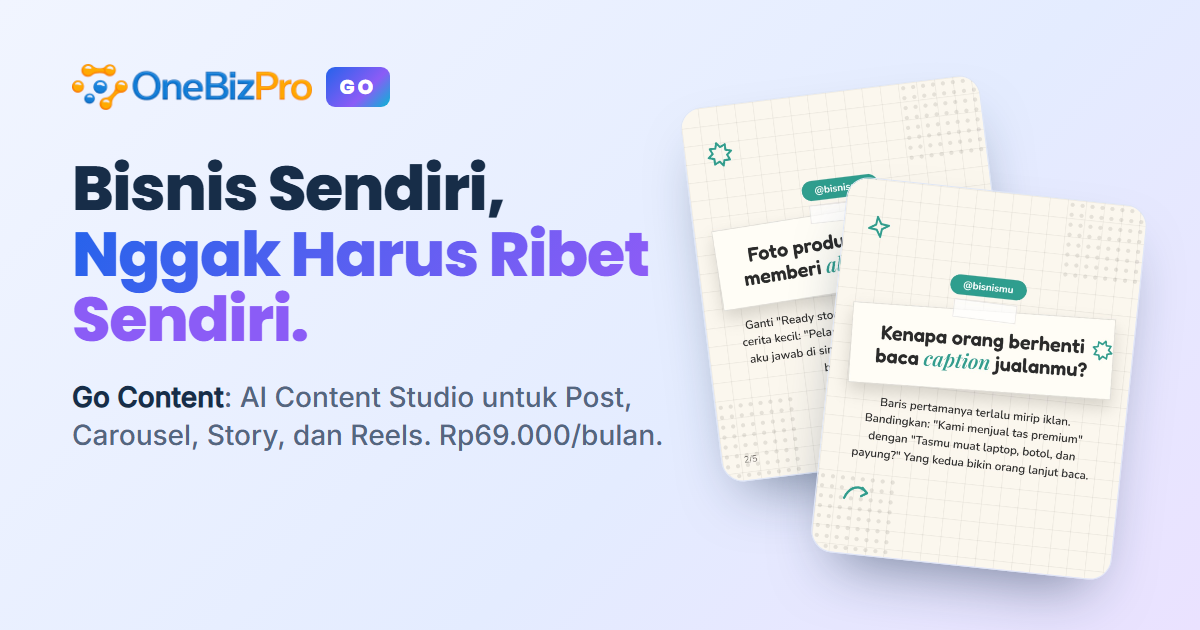
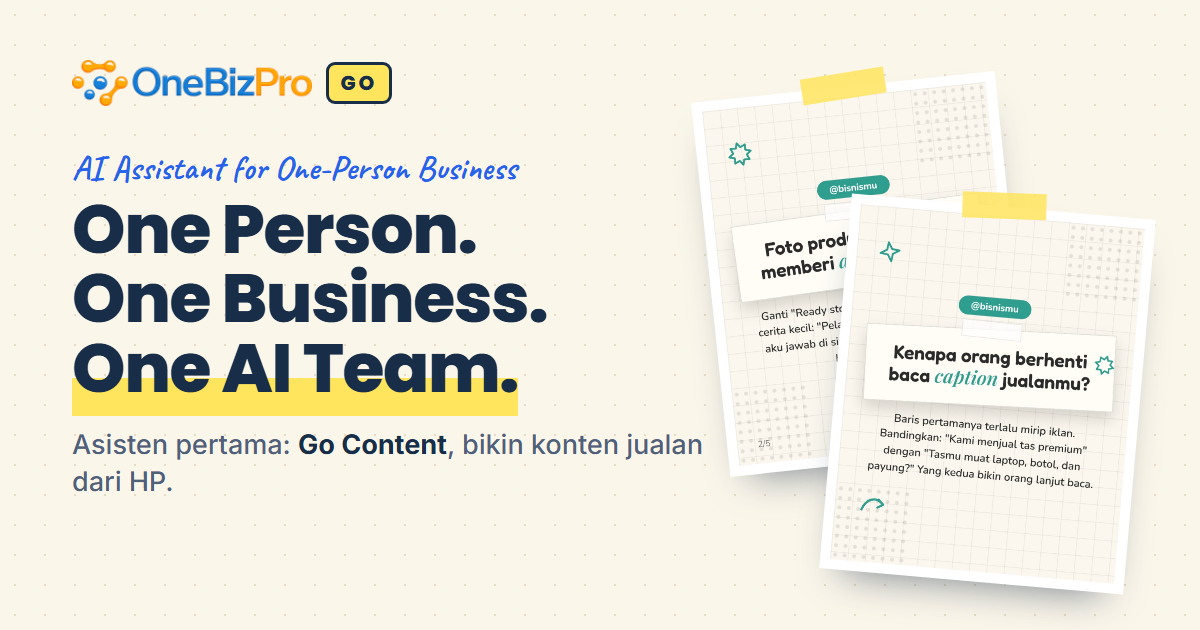
Go: sembunyikan harga, gambar OG baru, bagian akses

diff --git a/components/go/go-sections.tsx b/components/go/go-sections.tsx
@@ -3,8 +3,8 @@ import { FAQ, GO, PRICING_FEATURES, STEPS } from "@/lib/go";
 import { GoCta } from "./go-cta";
 import { GhostButton, LogoGo, Phone, Photo, PrimaryButton, SectionHead } from "./go-ui";
 
-/** Tujuan tombol beli: Lynk.id bila URL sudah diisi, selain itu menuju bagian harga. */
-const buyHref = GO.lynkUrl || "#harga";
+/** Tujuan tombol beli: Lynk.id bila URL sudah diisi, selain itu menuju bagian akses. Harga sengaja tidak ditampilkan dulu. */
+const buyHref = GO.lynkUrl || "#akses";
 
 export function GoNav() {
   return (
@@ -16,7 +16,7 @@ export function GoNav() {
         <nav className="hidden items-center gap-6 text-sm font-semibold text-[#4f607a] md:flex" aria-label="Menu Go">
           <a href="#topi" className="hover:text-[#172d48]">Satu orang</a>
           <a href="#demo" className="hover:text-[#172d48]">Hasilnya</a>
-          <a href="#harga" className="hover:text-[#172d48]">Harga</a>
+          <a href="#akses" className="hover:text-[#172d48]">Akses</a>
           <a href="#faq" className="hover:text-[#172d48]">FAQ</a>
         </nav>
         <GoCta href={buyHref} location="nav" className="go-btn go-btn-sm shrink-0 whitespace-nowrap">
@@ -47,7 +47,7 @@ export function GoHero() {
             <PrimaryButton href={buyHref} location="hero-primary">Coba Go Content</PrimaryButton>
             <GhostButton href="#demo" location="hero-secondary">Lihat hasilnya</GhostButton>
           </div>
-          <p className="mt-4 text-sm text-[#4f607a]">{GO.price}{GO.period}. Bisa dipakai dari HP.</p>
+          <p className="mt-4 text-sm text-[#4f607a]">Bisa dipakai dari HP.</p>
         </div>
 
         <div className="relative mx-auto h-[440px] w-full max-w-[420px] sm:h-[500px]">
@@ -139,14 +139,10 @@ export function GoSteps() {
 
 export function GoPricing() {
   return (
-    <section id="harga" className="go-section mx-auto max-w-6xl px-5 py-14">
-      <SectionHead hand="harga" title="Satu paket, jelas dari awal." />
+    <section id="akses" className="go-section mx-auto max-w-6xl px-5 py-14">
+      <SectionHead hand="mau coba?" title="Yang kamu dapat di Go Content." />
       <div className="go-card mx-auto mt-10 max-w-md bg-white p-7">
         <p className="go-hand text-2xl text-[#2563eb]">Go Content</p>
-        <p className="mt-1 flex items-end gap-1">
-          <span className="go-display text-5xl font-extrabold">{GO.price}</span>
-          <span className="pb-1.5 text-[#4f607a]">{GO.period}</span>
-        </p>
         <ul className="mt-5 space-y-2.5 text-[15px]">
           {PRICING_FEATURES.map((f) => (
             <li key={f} className="flex gap-2.5"><span className="mt-0.5 font-extrabold text-[#2563eb]">âœ“</span>{f}</li>
@@ -156,7 +152,6 @@ export function GoPricing() {
             {GO.credits ? `${GO.credits} kredit AI per bulan` : "Kredit AI bulanan untuk naskah. Jumlahnya diinformasikan saat berlangganan."}
           </li>
         </ul>
-        <p className="mt-4 text-sm text-[#4f607a]">Akses berlaku satu bulan. Perpanjangan dengan membeli lagi.</p>
         {GO.lynkUrl ? (
           <PrimaryButton href={GO.lynkUrl} location="pricing" className="mt-6 w-full">Langganan Go Content</PrimaryButton>
         ) : (

diff --git a/lib/go.ts b/lib/go.ts
@@ -1,4 +1,4 @@
-// OneBizPro Go: satu sumber untuk semua angka, tautan, dan teks yang bisa berubah.
+// OneBizPro Go: satu sumber untuk semua angka, tautan, dan teks yang bisa berubah.
 // Tautan Lynk.id, aplikasi, Instagram, dan jumlah kredit diisi lewat environment variable (lihat docs/onebizpro-go-landingpage.md).
 // Jangan menulis tautan atau angka karangan di sini: kalau belum diisi, halaman menampilkan keadaan "segera hadir", bukan tautan rusak.
 
@@ -7,8 +7,6 @@ export const GO = {
   product: "Go Content",
   tagline: "Bisnis Sendiri, Nggak Harus Ribet Sendiri.",
   siteUrl: "https://onebizpro.id/go",
-  price: "Rp69.000",
-  period: "/bulan",
   lynkUrl: process.env.NEXT_PUBLIC_LYNK_GO_CONTENT_URL ?? "",
   appUrl: process.env.NEXT_PUBLIC_GO_APP_URL ?? "",
   instagramUrl: process.env.NEXT_PUBLIC_GO_INSTAGRAM_URL ?? "https://www.instagram.com/onebizpro.go/",

diff --git a/app/go/layout.tsx b/app/go/layout.tsx
@@ -9,7 +9,7 @@ const caveat = Caveat({ subsets: ["latin"], weight: ["600", "700"], variable: "-
 
 const TITLE = "OneBizPro Go: AI Assistant for One-Person Business | Go Content";
 const DESC =
-  "One Person. One Business. One AI Team. Asisten pertama: Go Content, bikin Post, Carousel, Story, Reels, dan Highlight Cover dengan bantuan AI, dari HP. Rp69.000/bulan.";
+  "One Person. One Business. One AI Team. Asisten pertama: Go Content, bikin Post, Carousel, Story, Reels, dan Highlight Cover dengan bantuan AI, dari HP.";
 
 export const metadata: Metadata = {
   title: TITLE,
